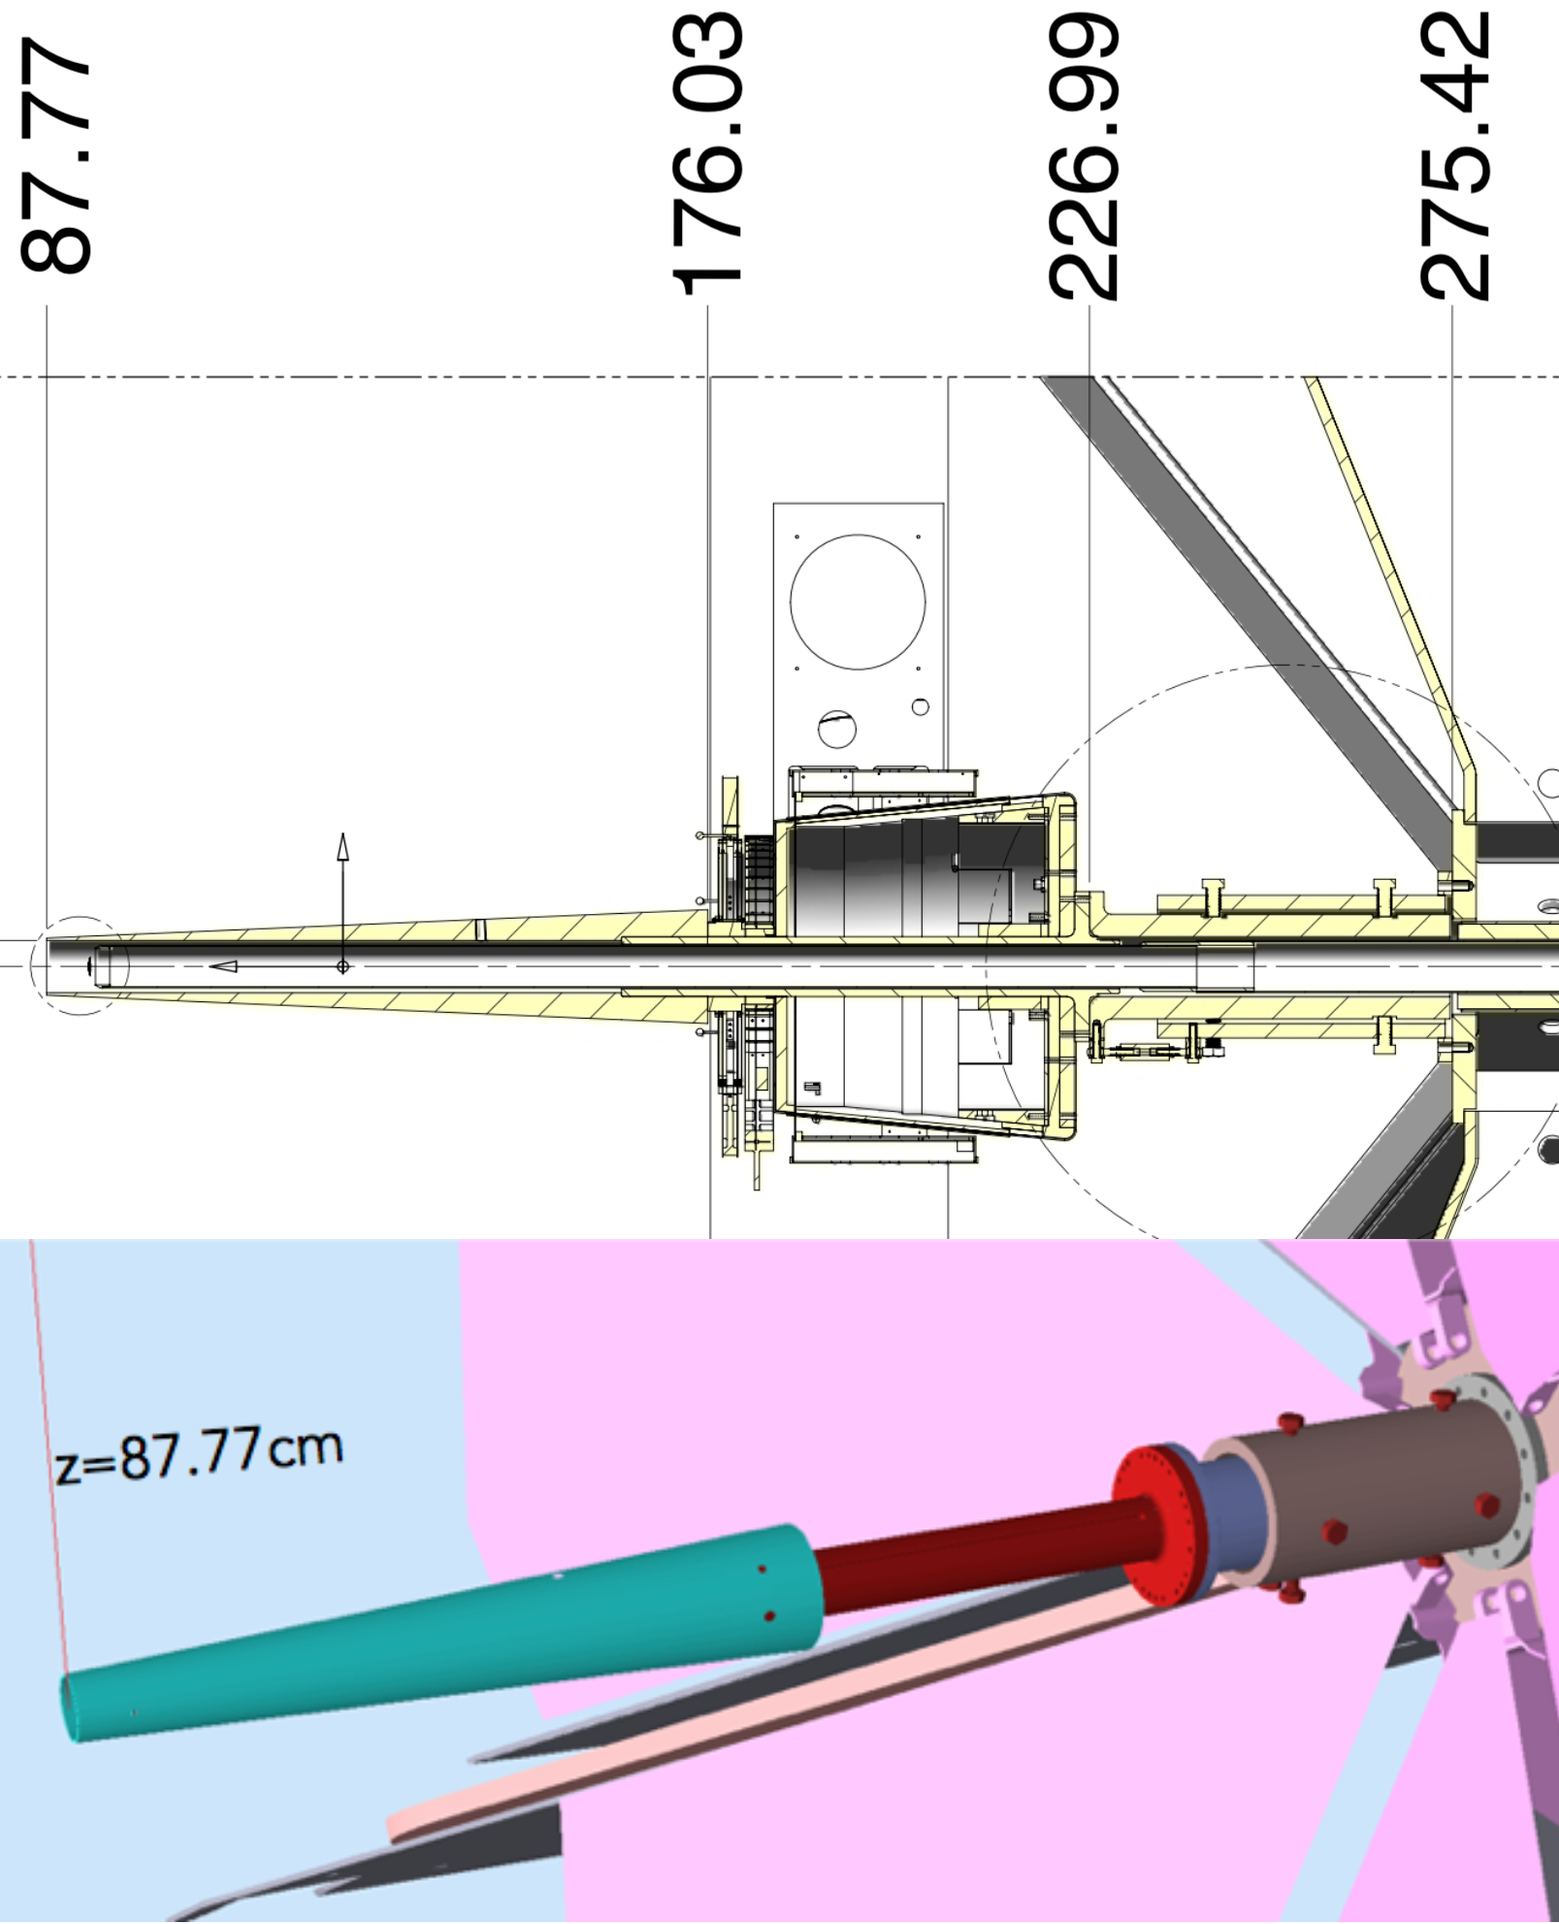
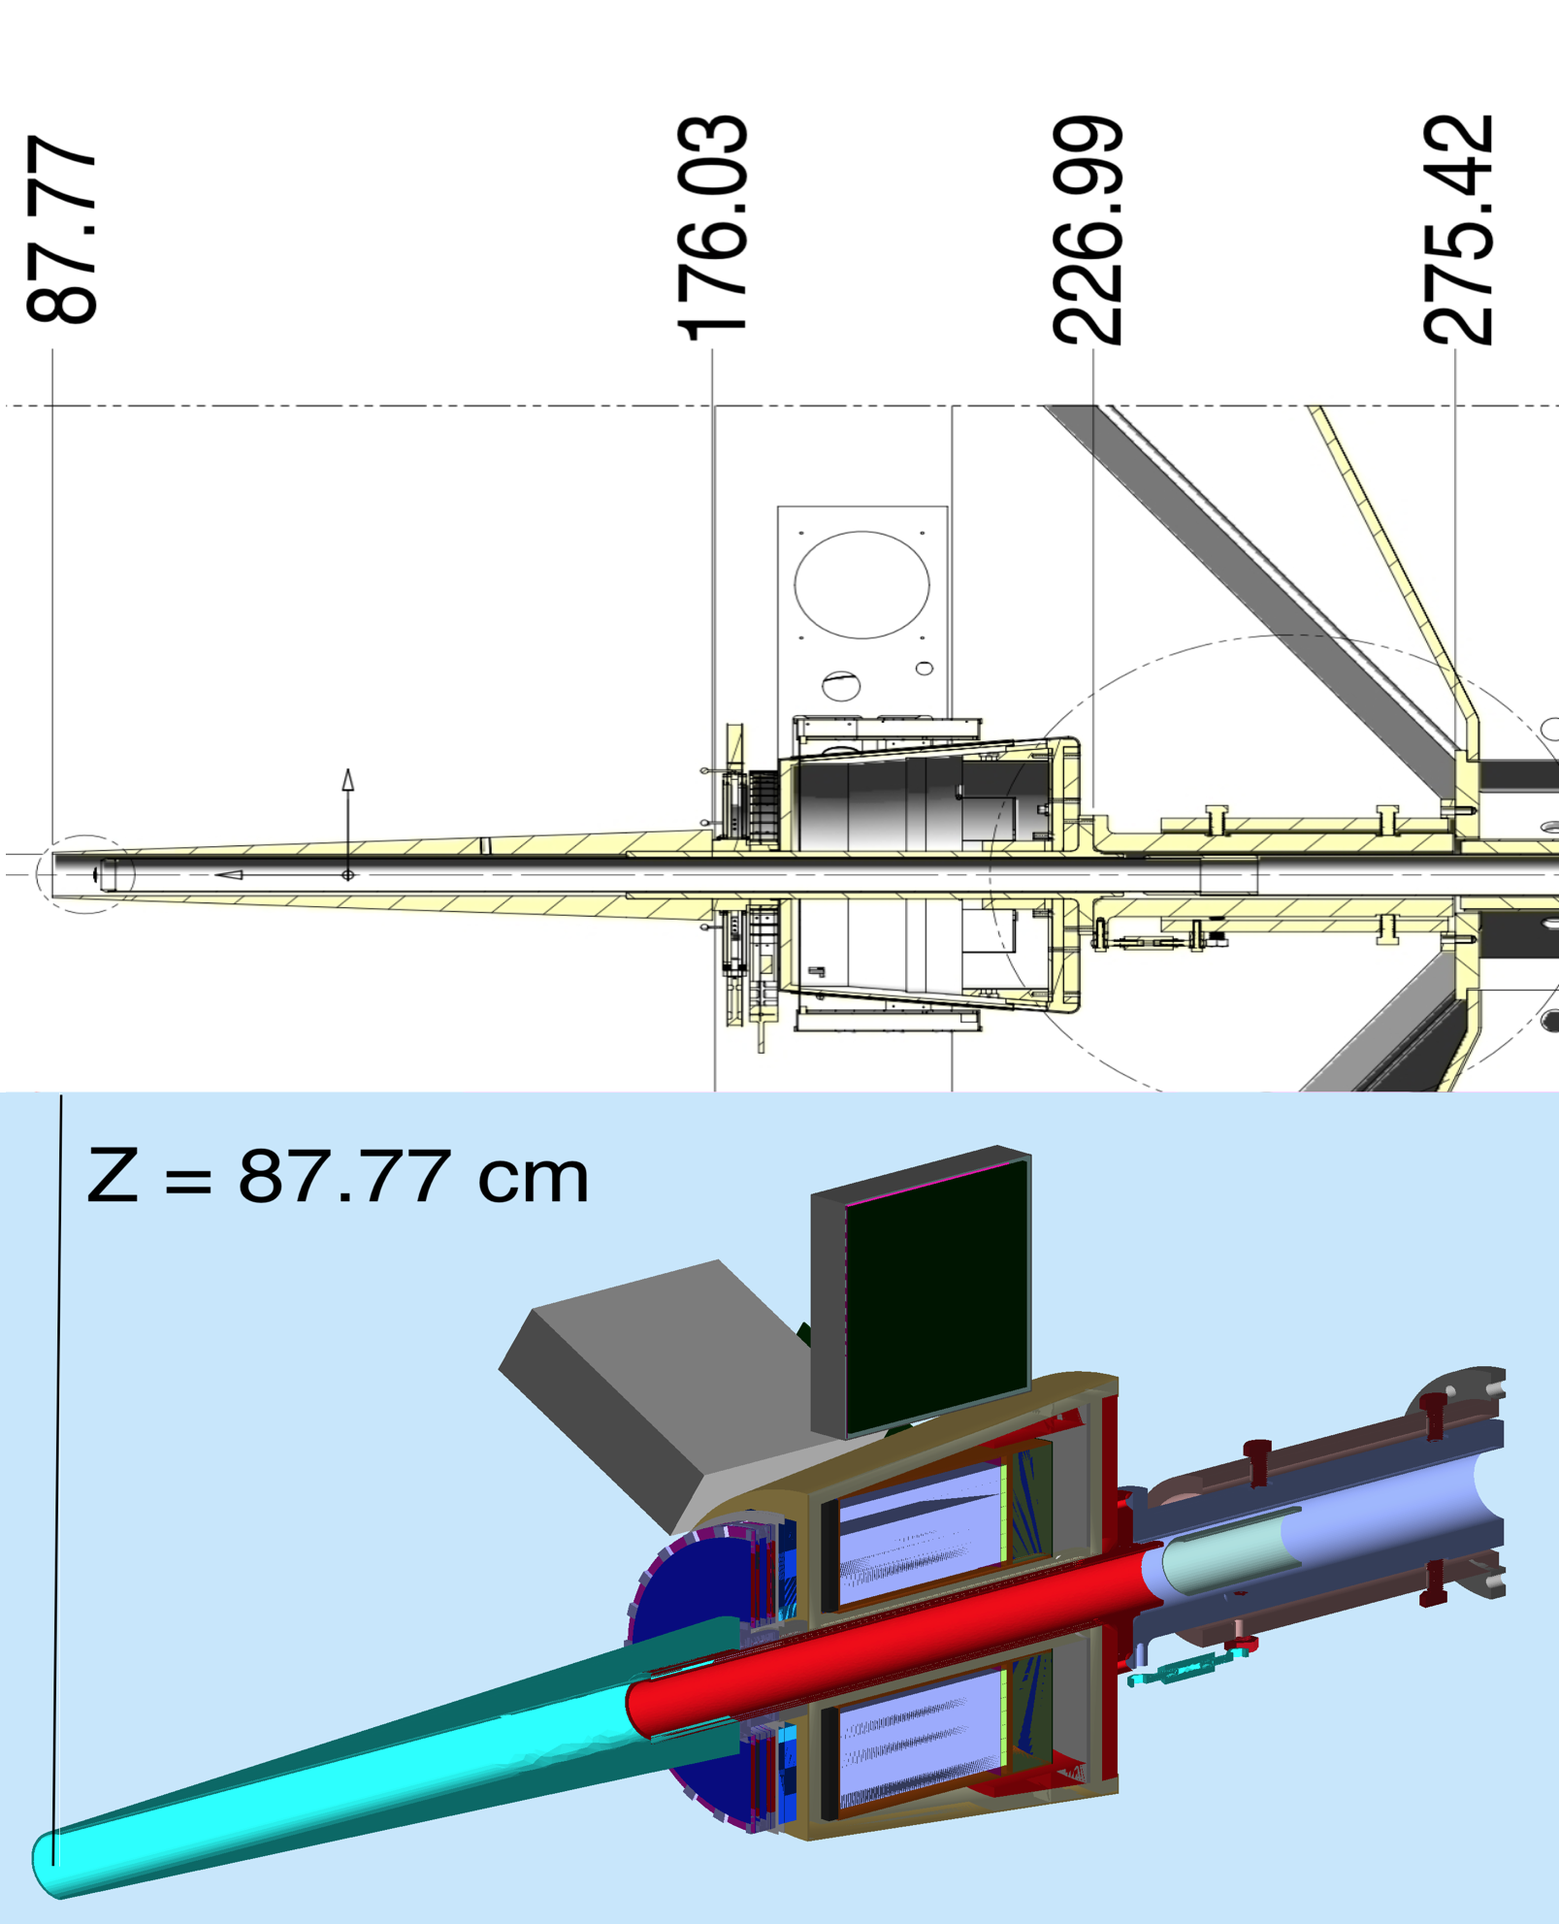
overview corrections and improved pictures

diff --git a/simulations/overview.tex b/simulations/overview.tex
@@ -41,13 +41,14 @@ The design of the framework is summarized in \F{gemcDesign}.
 
 \begin{figure}
 	\centering
-	\includegraphics[width=0.98\columnwidth,keepaspectratio]{img/gemcDesign.png}
+	\includegraphics[width=1.0\columnwidth,keepaspectratio]{img/gemcDesign.png}
 	\caption{The architecture of GEMC. The simulation parameters are stored in an external database. GEMC collects
              them and organize the necessary Geant4 ingredients used to simulate the
              passage of particles through materials and sensitive regions. The hits are digitized with
              plugins defined by the user and collected in user-defined outputs.  }
 	\label{fig:gemcDesign}
 \end{figure}
+
 
 
 \subsection{Geometry and Materials Import}
@@ -143,9 +144,9 @@ An example of the CAD validation is shown in \F{cadValidationExample}.
 
 \begin{figure}
 	\centering
-	\includegraphics[width=0.95\columnwidth,keepaspectratio]{img/cadValidationExample.png}
-	\caption{An example of comparing the GEMC simulation to the drawings and validating the geometry.
-             Top: engineering drawings of the CLAS12 beamline and shielding. The start of the M\"oller shielding is 87.77 cm downstream
+	\includegraphics[width=0.99\columnwidth,keepaspectratio]{img/cadValidationExample.png}
+	\caption{An example of comparing volumes in the GEMC simulation to the engineering drawings, in this case to validate the cone shield
+             position. Top: engineering drawings of the CLAS12 beamline and shielding. The start of the M\"oller shielding is 87.77 cm downstream
              of the target center. Bottom: a geantino (a special Geant4 particle that does not interact with materials or fields)
              is shot vertically at z=87.77 cm, showing that the Geant4 cone position agrees with the drawings.}
 	\label{fig:cadValidationExample}
@@ -164,65 +165,67 @@ command line options or configuration files at run time:
 		  a variation (choice of order and/or precision) of Runge Kutta \cite{rungeKutta} methods
 \end{itemize}
 
-The implementation of the CLAS12 magnetic fields is described in \ref{clas12FieldMaps}.
+The implementation of the CLAS12 magnetic fields is described in Section \ref{clas12FieldMaps}.
 
-\subsection{Event Time Window and Hit definition}
+\subsection{Event Time Window and Hit Definition}
+
 The Geant4 sensitive volumes are associated with a GEMC identifier that contains hierarchical information such as mother volumes
 and volume copy number.
 
-Each detector is associated with a time quantity to mimic the readout electronic time window.
-
-The time window and identifier define a GEMC hit from a series of Geant4 steps: all the steps in a given identifier that are within the time window
+Each detector is associated with a time quantity to mimic the readout electronic time window. The time window and identifier
+define a GEMC hit from a series of Geant4 steps: all the steps in a given identifier that are within the time window
 are part of the same GEMC hit. The algorithm is illustrated in \F{hitDefinition}.
 
 \begin{figure}
 	\centering
-	\includegraphics[width=0.95\columnwidth,keepaspectratio]{img/hitDefinition.png}
-	\caption{The GEMC Hit definition algorithm. Two sensitive cells, in red and yellow, are hit by four particles, two primaries and two secondaries.
-             The Geant4 steps in the yellow sensitive cell are drawn explicitly. The circle steps generated by both the primary track $\#2$ and the secondary
-             from track $\#1$ are within the time window and therefore are all part of the same GEMC hit. The single square step generated by the secondary
-             from track $\#1$ comes after and does not fall in the circle time window, therefore it is part of a new GEMC hit.}
+	\includegraphics[width=0.99\columnwidth,keepaspectratio]{img/hitDefinition.png}
+	\caption{The GEMC Hit Definition algorithm. The sensitive element Cell 2 is hit by three particles, two primaries and one secondary.
+             The Geant4 steps are drawn explicitly with circle and triangle symbols. The circle steps generated by both the primary track 1 and the secondary
+             from track 2 are within the time window and therefore are part of the same GEMC hit ``Cell 2, Hit 1''.
+             The single triangle step generated by the secondary from track 2 comes after and does not fall within the ``Cell 2, Hit 1``
+             time window, therefore it is part of a new GEMC hit, ``Cell 2, Hit 2''.}
 	\label{fig:hitDefinition}
 \end{figure}
 
 \subsection{Process ID}
 
-A "processID" method can be implemented by some digitization algorithm to modify or add GEMC identifiers to each Geant4 step. For CLAS12 this happens in two
+A ``processID'' method can be implemented by some digitization algorithm to modify or add GEMC identifiers to each Geant4 step. For CLAS12 this happens in two
 cases, detailed for each detector:
 
 \begin{itemize}
 	\item a paddle is hit but two outputs are produced because there is one PMT at each end of the scintillator. This
-          is the case for CTOF, CND, FTOF.
-    \item some hardware elements are not present in the simulation. This is the case for Drift Chambers, where the volumes do not contain
+          is the case for CTOF, CND, and FTOF.
+    \item some hardware elements are not present in the simulation. This is the case for the drift chambers, where the volumes do not contain
           the individual wires. In this case the wire id is calculated based on the position of the hit in the mother volume. In CLAS12 this mechanism
-          is adopted by the DC, BST and Micromegas.
+          is adopted by the DC, SVT and Micromegas.
 \end{itemize}
 
 
 \subsection{Detectors and Hit Process Plugin Mechanism}
-The detector are associated with c++ digitization routines at run time, see \F{pluginsAssociation}
+
+The detectors are associated with c++ digitization routines at run time, see \F{pluginsAssociation}.
+This allows the routines to be developed independently from the core code. Abstract methods can be derived in
+the individual detector hit processes to define the treatment of the Geant4 steps within the detector
+time window to provide three kind of outputs:
 
 \begin{figure}
 	\centering
 	\includegraphics[width=0.95\columnwidth,keepaspectratio]{img/pluginsAssociation.png}
-	\caption{Hit Process Digitization Plugin association. The detector are associated by name with the hit process routine plugins at run time:
-			 The routine are registered in the hit process map and are called during digitization.}
+	\caption{Hit process digitization plugin association. The detectors are associated by name with the hit process routine
+             plugins at GEMC run time. The routines are registered in the hit process map and are called during digitization.}
 	\label{fig:pluginsAssociation}
 \end{figure}
 
-This allows the routines to
-be developed independently from the core code. Abstract methods can be derived in the individual detectors hit processes
-to define the treatment of the Geant4 steps within the detector time window to provide three kind of outputs:
 
 \begin{itemize}
-	\item a bank with digitized variables for each hit
-	\item a bank with digitized variables for Geant4 step
-	\item a bank with an analog voltage versus time signal for each Geant4 hit
+	\item a bank with digitized variables for each hit;
+	\item a bank with digitized variables for each Geant4 step;
+	\item a bank with an analog voltage versus time signal for each Geant4 hit.
 \end{itemize}
 
-The digitized banks are detailed in each detector subsystem, for example in \ref{tab:bstBank}.
+The digitized banks are detailed in each detector subsystem, for example in section \ref{tab:bstBank}.
 
-\subsection{True Information}
+\subsection{``Truth'' Information}
 
 The true information is saved in the output when requested, per detector. The true information can
 be integrated (one variable entry per GEMC hit) or verbose (one variable entry per Geant4 step).
@@ -242,21 +245,21 @@ The true information variables are summarized in Table \ref{tab:trueInformation}
 				otid        &   Track ID of the ancestor of the FP \\
 				trackE      &   Total energy of the FP \\
 				totEdep     &   Total energy deposited (in MeV) \\
-				avg\_x      &   Average X position  (in mm) \\
-				avg\_y      &   Average Y position  \\
-				avg\_z      &   Average Z position  \\
-				avg\_lx     &   Average local X position \\
-				avg\_ly     &   Average local Y position \\
-				avg\_lz     &   Average local Z position \\
-				px          &   x  of momentum of the FP (in MeV) \\
-				py          &   y  of momentum of the FP \\
-				pz          &   z  of momentum of the FP \\
-				vx          &   x  of the FP's origin (in mm) \\
-				vy          &   y  of the FP's origin \\
-				vz          &   z  of the FP's origin \\
-				mvx         &   x  of the FP mother's origin\\
-				mvy         &   y  of the FP mother's origin \\
-				mvz         &   z  of the FP mother's origin \\
+				avg\_x      &   Average $x$ position  (in mm) \\
+				avg\_y      &   Average $y$ position  \\
+				avg\_z      &   Average $z$ position  \\
+				avg\_lx     &   Average local $x$ position \\
+				avg\_ly     &   Average local $y$ position \\
+				avg\_lz     &   Average local $z$ position \\
+				px          &   $x$  of momentum of the FP (in MeV) \\
+				py          &   $y$  of momentum of the FP \\
+				pz          &   $z$  of momentum of the FP \\
+				vx          &   $x$  of the FP's origin (in mm) \\
+				vy          &   $y$  of the FP's origin \\
+				vz          &   $z$  of the FP's origin \\
+				mvx         &   $x$  of the FP mother's origin\\
+				mvy         &   $y$  of the FP mother's origin \\
+				mvz         &   $z$  of the FP mother's origin \\
 				avg\_t      &   Average time \\
 				nsteps      &   Number of Geant4 steps \\
 				procID      &   Process that created the FP.  \\
@@ -271,28 +274,31 @@ The true information variables are summarized in Table \ref{tab:trueInformation}
 
 \subsection{Database Constants}
 
-The mechanism to read, store and make available the CCDB \cite{ccdb} calibration constants is
-run automatically at the start of the run and every time the run number changes.
+The mechanism to read, store, and make available the CCDB \cite{ccdb} calibration constants is
+executed at the start of the run and every time the run number changes.
 Individual detector add their constants by implementing the corresponding abstract method.
-
-The list of constants loaded is detailed in each detector implementation section.
+The list of constants loaded is detailed in each detector implementation section below.
 
 \subsection{Digitization}
 
 The digitization routines are called at the end of each event, after the Geant4 navigation
 has propagated all tracks and GEMC has collected all the steps into hits.
 
-The process routine digitize each hit by iterating through all the steps in it and collecting a
-a number of variables onto the detector bank.
+The process routines digitize each hit by iterating through all the steps in it and collecting
+a number of variables into detector banks. This typically involves calculating a charge based
+on energy deposited and converting it into an ADC number, calculating a hit time based
+on various signal propagation models and converting that time into TDC, convertng a number
+of collected photons into charge and then ADC, etc. It is at this stage that the calibration
+constants are used (for example, attenuation length in scintillator paddles).
 
-There are four different flavor of digitization that gives different outputs:
+There are four different types of digitization, each with a different output structure:
 
 \begin{itemize}
-	\item integrated (one bank per hit): this is implemented for all CLAS12 detectors.
-	\item step-by-step (one bank per Geant4 step): used for debugging.
-	\item voltage: the analog signal versus time calculated as response of the detector to tracks passing through it
-    \item fadc: the same FADC bank from crate/slot/channel as written by the CLAS12 data acquisition.
-          This is implemented for the calorimeters and the time-of-flight detectors
+	\item integrated (one bank per hit): this is implemented for all CLAS12 detectors;
+	\item step-by-step (one bank per Geant4 step): used for debugging;
+	\item voltage: the analog signal versus time calculated as a response of the detector to tracks passing through it;
+	\item fadc: the same FADC bank from crate/slot/channel as written by the CLAS12 data acquisition system \cite{daq2019}.
+          This is implemented for the CND, CTOF, FTOF, FT-CAL, ECAL.
 \end{itemize}
 
 
@@ -301,7 +307,7 @@ The digitization is detailed in each detector implementation section.
 
 \subsection{Output}
 
-The output is available in two formats, identical in content: text (ascii) and evio \cite{evio}, the Jefferson Lab
+The GEMC output is available in two formats, identical in content: text (ascii) and evio \cite{evio}, the Jefferson Lab
 data acquisition format.
 Utilities were used to convert the evio format onto ROOT \cite{root}.
 
@@ -309,26 +315,26 @@ The various output banks include:
 
 \begin{itemize}
 	\item header: timestamp, event number, run number, etc.
-	\item generated: generated particle information as seen by geant4. This bank includes a summarized information of the interaction of
-                     the particles with each detector such as number of hits, total energy deposited, etc. This summary includes
+	\item generated: generated particle information as seen by Geant4. This bank includes summarized information of the interaction of
+                     the particles with each detector such as the number of hits, total energy deposited, etc. This summary includes
                      the interactions of all the primary particle secondaries.
-	\item user header: a copy of the generator
-	\item beam radio-frequency signal: mimics the accelerator bank, a 248 MHz signal.
+	\item generator extras: information stored in the generated file, not necessary used in Geant4, for example cross sections, weights, etc.
+	\item beam radio-frequency signal: mimics the accelerator bank, a 248 MHz signal
 	\item detector true info, per hit or per step
 	\item detector digitized info, per hit or per step
-	\item detector voltage vs time
+	\item detector voltage vs. time
 	\item detector fadc signal
-\item ancestor: the complete hierarchy of the primary and secondary particles.
+	\item ancestors: the complete hierarchy of the primary and secondary particles
 \end{itemize}
 
 The various banks are organized using a unique integer identifier.
 
 \subsection{Background Merging}
 
-Real data can be merged with simulated events, typically from random trigger to emulate physics and electronic background in
+Real data can be merged with simulated events, typically from random trigger data to emulate physics and electronic background in
 the various detectors.
-The data is un\-digitized using the inverse digitization to calculate the energy and real timing from ADC and TDC values.
-It is then saved in text files indexed by event number and detector ID. This makes also easy to scale the background luminosity by grouping
+The data is un\-digitized using the inverse digitization to calculate the energy and real timing from the ADC and TDC values.
+It is then saved in text files indexed by event number and detector ID. This also makes it possible to scale the background luminosity by grouping
 several events into one; for example, grouping two events at 50 nA beam current give one event with background from 100 nA current.
 The energy information is re-digitized using the same algorithm used for the Geant4 steps, producing additional hits to the ones coming from simulation.
 

diff --git a/simulations/titleAndauthors.tex b/simulations/titleAndauthors.tex
@@ -14,7 +14,6 @@
 % magnets:    P. Ghoshal, R. Fair, R. Rajput-Goshal, J. Newton
 % ft:         R. DeVita M. Battaglieri
 % beamline:   Stepan, Bob Biller and Cyril.
-
 % ec/pcal:    C. Smith, Andrey Kim, Jerry Gilfoile
 
 \author[A]{M. Ungaro}
